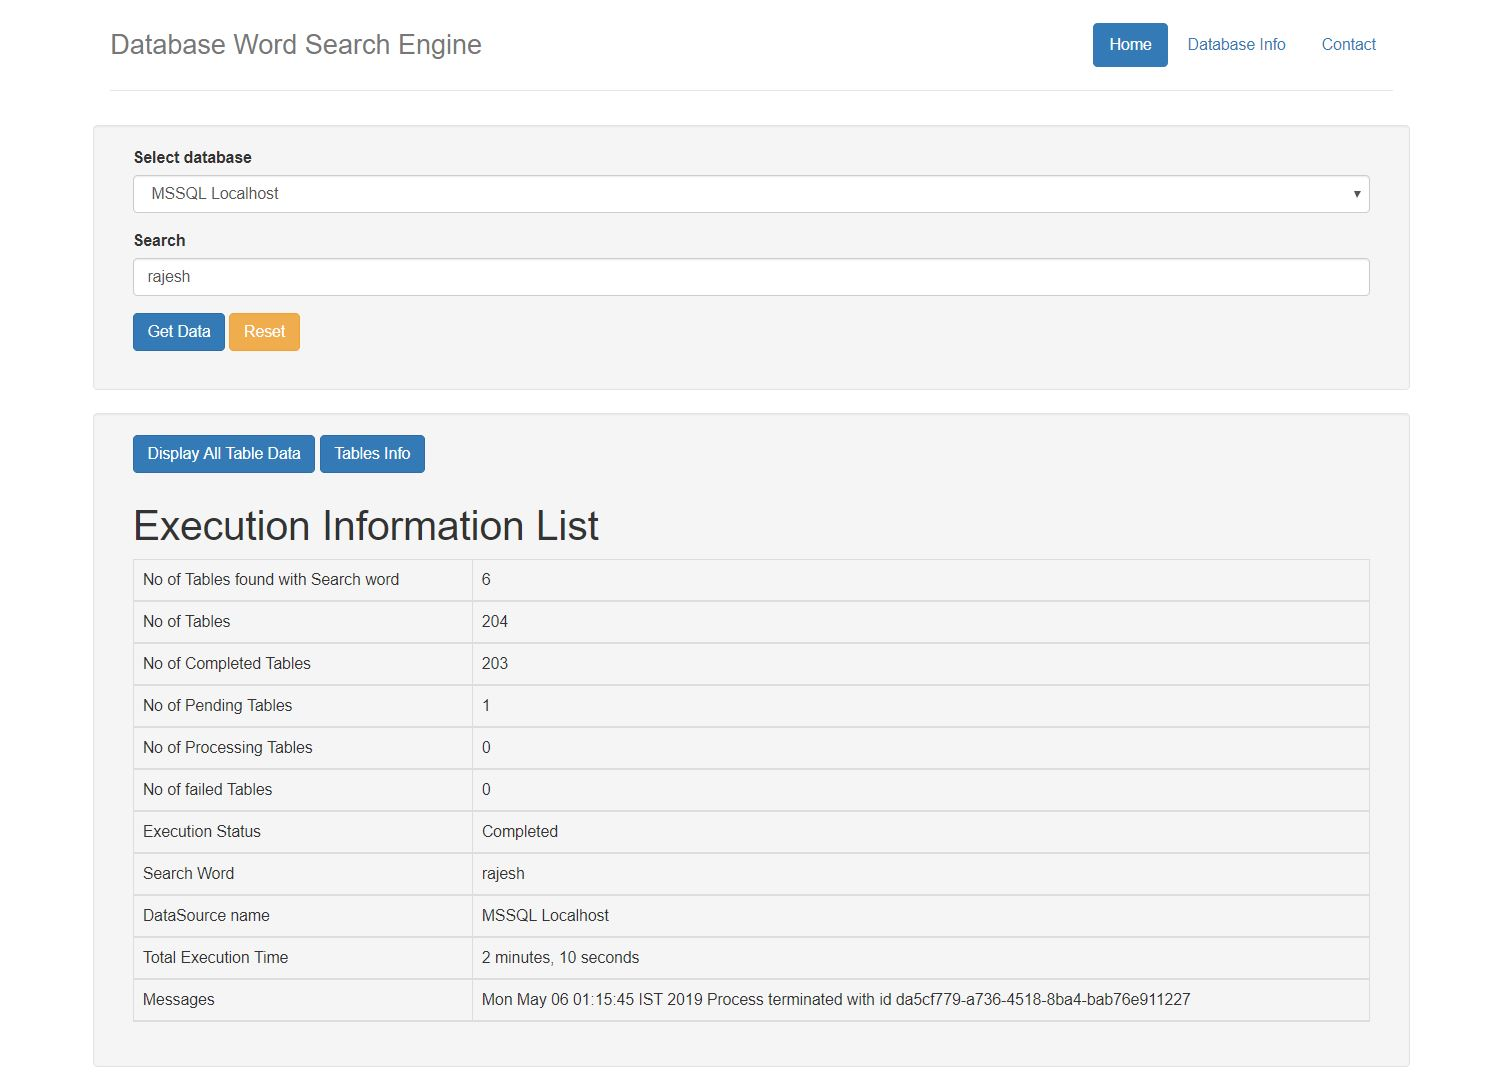
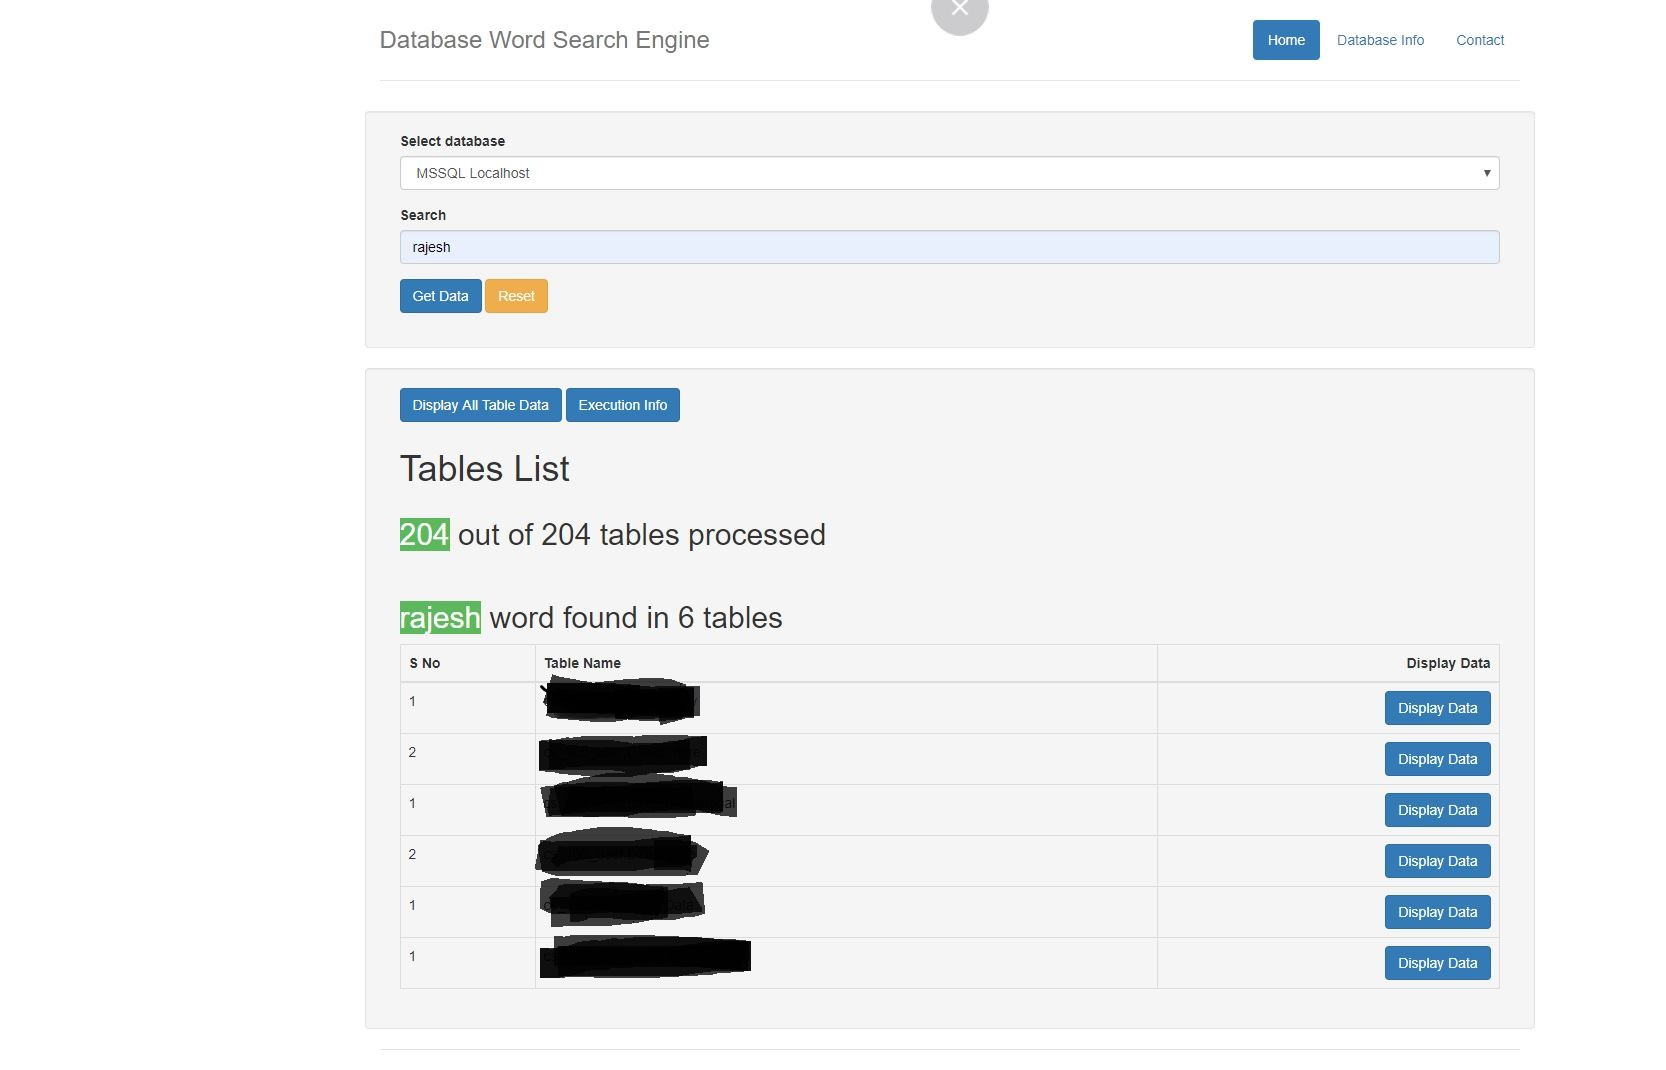
result page changes

diff --git a/queryengine-web/Readme.md b/queryengine-web/Readme.md
@@ -23,8 +23,11 @@ There are two screens for in this product
 ### Here we can screen choose the datasource and search the word in it.
 
 *	select the datasource and enter the word you want to search
+![alt Input page](https://raw.githubusercontent.com/rajesh15th/queryengine-web/master/queryengine-web/src/main/resources/query-engine/word-search-results.JPG)
 *	Once you click on the Get Data button, we can see the results page
-* 	There are several buttons we have  
+* 	There are several buttons.
+![alt Input page](https://raw.githubusercontent.com/rajesh15th/queryengine-web/master/queryengine-web/src/main/resources/query-engine/results-page.JPG)
+![alt Input page](https://raw.githubusercontent.com/rajesh15th/queryengine-web/master/queryengine-web/src/main/resources/query-engine/execution-information.JPG)
 
 ## Database configuration
 Its a CRUD operation database info table.
